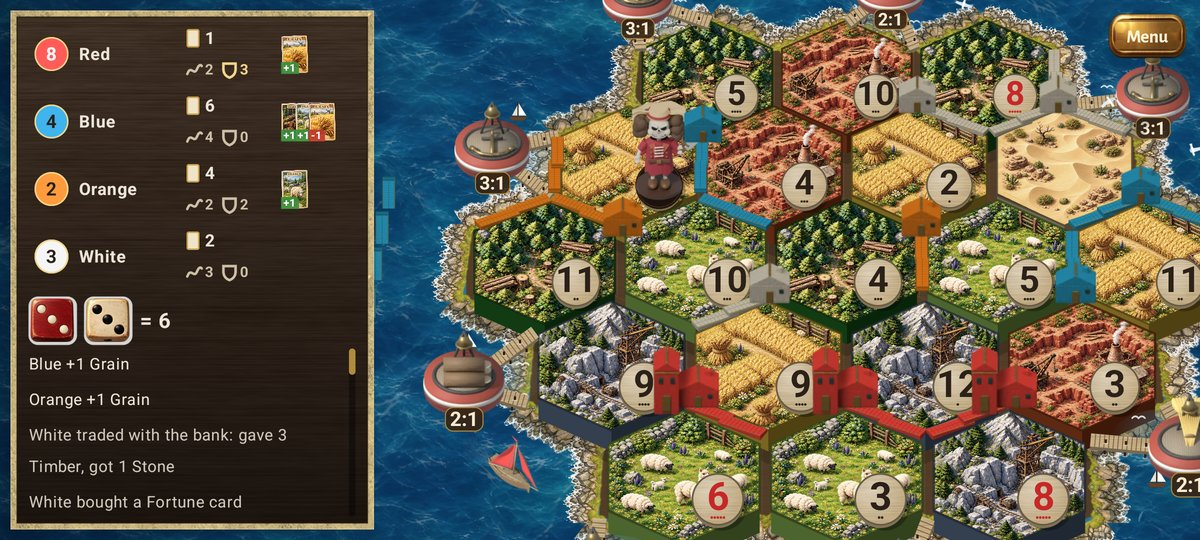
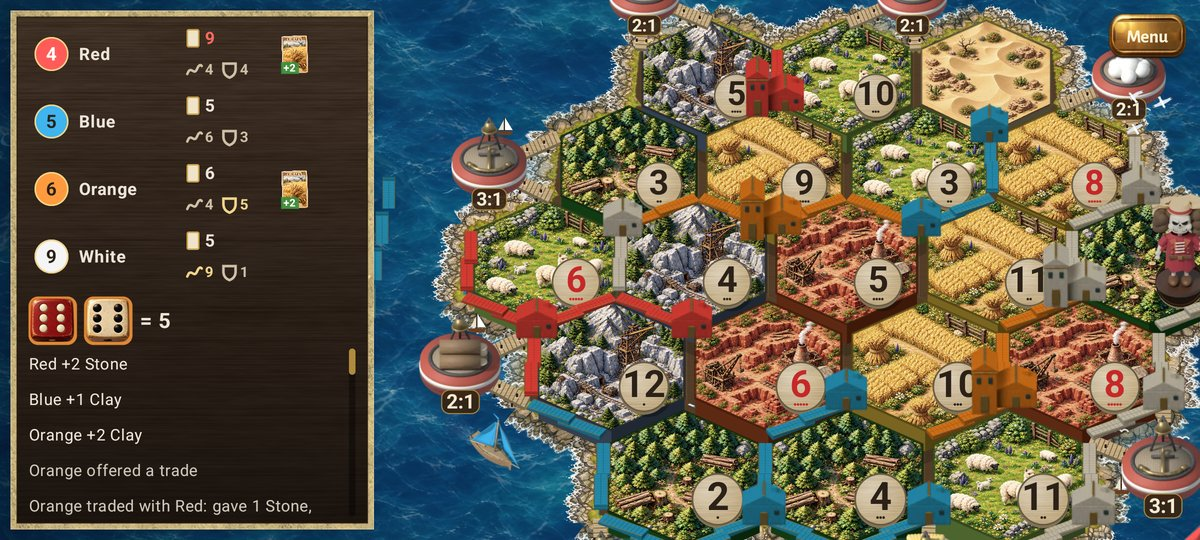
0.2.9 (code 12): whale start found off the UI thread; showcase re-recorded
The whale's start search (thousands of coast checks over the view's sea)
ran on the UI thread at the first frame; it now runs on a daemon thread
and the next frame picks the runner up (CritterTest checks it is searched
once and never waited on). README GIFs and gallery re-recorded.

diff --git a/app/src/main/java/com/mauro/wgbg/SeaCritter.kt b/app/src/main/java/com/mauro/wgbg/SeaCritter.kt
@@ -17,10 +17,13 @@ import kotlin.math.sin
  * A critter on the game's sea (docs/design/critter-spec.md): the [CritterRunner] ticks every 0.1 s and the board shows
  * it between ticks, smoothly. Positions are in the game's lattice (y down); the runner's board frame has y up.
  */
-internal class SeaCritter(val spec: CritterSpec, private val seed: Long) {
-    /** Starts on the first [update] that knows the open water in view; null until then, or if there is no room. */
+internal class SeaCritter(val spec: CritterSpec, private val seed: Long,
+                          /** Runs the start-up search (a few thousand coast checks): off the UI thread in the app, inline in tests. */
+                          private val launch: (() -> Unit) -> Unit = { it() }) {
+    /** Starts once the open water in view is known and its start is found; null until then, or if there is no room. */
     var runner: CritterRunner? = null; private set
     private var tried = false
+    @Volatile private var found: CritterRunner? = null
     private var lastStage = ""
     private var clock = 0.0
     private var px = 0.0; private var py = 0.0; private var ph = 0.0
@@ -29,12 +32,15 @@ internal class SeaCritter(val spec: CritterSpec, private val seed: Long) {
     fun update(dt: Float, view: Rect) {
         if (!tried) {
             tried = true
-            // A small screen leaves little open water: widen the margin until the critter has room.
-            runner = listOf(CritterBoard.VIEW_MARGIN, 1.5, 2.0).firstNotNullOfOrNull { m -> runCatching { CritterRunner(spec, seed, CritterBoard.forView(view, m)) }.getOrNull() }
-            runner?.let { px = it.x; py = it.y; ph = it.heading }
-            critterLog("${spec.id} " + (runner?.let { "starts at %.1f,%.1f".format(it.x, -it.y) } ?: "has no room") +
-                " in view %.1f..%.1f x %.1f..%.1f".format(view.left, view.right, view.top, view.bottom))
+            launch {
+                // A small screen leaves little open water: widen the margin until the critter has room.
+                val r = listOf(CritterBoard.VIEW_MARGIN, 1.5, 2.0).firstNotNullOfOrNull { m -> runCatching { CritterRunner(spec, seed, CritterBoard.forView(view, m)) }.getOrNull() }
+                critterLog("${spec.id} " + (r?.let { "starts at %.1f,%.1f".format(it.x, -it.y) } ?: "has no room") +
+                    " in view %.1f..%.1f x %.1f..%.1f".format(view.left, view.right, view.top, view.bottom))
+                found = r
+            }
         }
+        if (runner == null) found?.let { runner = it; px = it.x; py = it.y; ph = it.heading }
         val r = runner ?: return
         clock += dt.coerceAtMost(3f)
         while (clock >= CritterRunner.DT) {
@@ -60,10 +66,10 @@ internal class SeaCritter(val spec: CritterSpec, private val seed: Long) {
          * seeded from the board, so every phone in an online game agrees whether there is a whale (where it swims
          * follows each screen's open water). Only the standard island.
          */
-        fun forGame(specs: List<CritterSpec>, boardSeed: Long, landHexes: Int): List<SeaCritter> =
+        fun forGame(specs: List<CritterSpec>, boardSeed: Long, landHexes: Int, launch: (() -> Unit) -> Unit = { it() }): List<SeaCritter> =
             if (landHexes != 19) emptyList() else specs.mapIndexedNotNull { i, s ->
                 val roll = CritterRandom(boardSeed * 31 + i * 7919 + 17)
-                if (s.count[1] < 1 || roll.next() >= s.chance) null else SeaCritter(s, (boardSeed * 131 + i) and 0xffffffffL)
+                if (s.count[1] < 1 || roll.next() >= s.chance) null else SeaCritter(s, (boardSeed * 131 + i) and 0xffffffffL, launch)
             }
     }
 }

diff --git a/app/src/main/java/com/mauro/wgbg/MainActivity.kt b/app/src/main/java/com/mauro/wgbg/MainActivity.kt
@@ -631,11 +631,11 @@ fun WatchGameScreen(
     // The whale (critter engine): rolled once per game from the board, so both phones in an online game see the same one.
     LaunchedEffect(sea) {
         val seed = boardSeed(state); val hexes = state.board.hexCount
-        // Off the main thread: reading the spec and finding the whale's start take a moment.
+        // Off the main thread: reading the spec here, and finding the whale's start once the first frame knows the view.
         sea.critters = kotlinx.coroutines.withContext(kotlinx.coroutines.Dispatchers.Default) {
             val specs = runCatching { listOf(CritterSpec.parse(appContext.assets.open("critters/whale.critter.json").bufferedReader().use { it.readText() })) }
                 .getOrDefault(emptyList())
-            SeaCritter.forGame(specs, seed, hexes)
+            SeaCritter.forGame(specs, seed, hexes) { job -> kotlin.concurrent.thread(isDaemon = true, name = "critter-start") { job() } }
         }
         android.util.Log.i("WGBG-CRITTER", "critters=${sea.critters.joinToString(",") { it.spec.id }.ifEmpty { "none" }} seed=${boardSeed(state)}")
     }

diff --git a/app/src/test/java/com/mauro/wgbg/CritterTest.kt b/app/src/test/java/com/mauro/wgbg/CritterTest.kt
@@ -156,6 +156,19 @@ class CritterTest {
         assertEquals(null, w.runner); assertEquals(null, w.pose())
     }
 
+    @Test
+    fun `the start search runs where it is launched (off the UI thread in the app), and the next frame picks it up`() {
+        val jobs = ArrayList<() -> Unit>()
+        val w = SeaCritter(CritterSpec.parse(whale), 3) { jobs += it }
+        w.update(0.1f, VIEW)
+        assertEquals(null, w.runner, "the frame doesn't wait for the search")
+        assertEquals(1, jobs.size)
+        jobs.single()()
+        w.update(0.1f, VIEW)
+        assertTrue(w.runner != null && w.pose() != null)
+        w.update(0.1f, VIEW); assertEquals(1, jobs.size, "searched once")
+    }
+
     private companion object {
         /** The sea in view at fit zoom on the Pixel 8 emulator, between the side panel and the zoom bars (as logged). */
         val VIEW = androidx.compose.ui.geometry.Rect(-7.8f, -6.1f, 4.6f, 5.8f)
